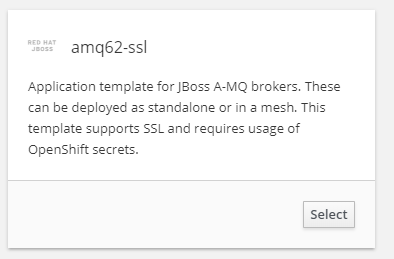
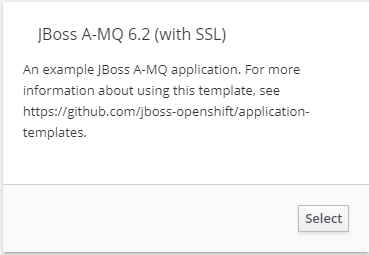
Add new content flow
Fix existing flow to work with amq

diff --git a/rhoar-spring-boot/spring-messaging/04-deploy-to-openshift.md b/rhoar-spring-boot/spring-messaging/04-deploy-to-openshift.md
@@ -23,25 +23,62 @@ In order create our template we have to load a `json` file with all of the confi
 
 ``oc login -u system:admin``{{execute}}
 
-After we're logged in, confirm that we're using the proper project. We should see output that says: `Using project "amq-demo"`. Since we're in the right project, let's go ahead and load up our template:
+After we're logged in, confirm that we're using the proper project. We should see output that says: `Using project "amq-demo"`. Since we're in the right project, let's go ahead and load up our templates:
 
-``oc create -f https://raw.githubusercontent.com/openshift/openshift-ansible/master/roles/openshift_examples/files/examples/v1.3/xpaas-templates/amq62-ssl.json -n openshift``{{execute}}
+``oc create -n openshift -f \ https://raw.githubusercontent.com/jboss-openshift/application-templates/ose-v1.4.8/jboss-image-streams.json``{{execute}}
 
-We should see `template "amq62-ssl" created` which means we're done creating our template! Log back into our developer user and we can get into the other steps necessary for deploying our JBoss Instance.
+``oc replace -n openshift -f \ https://raw.githubusercontent.com/jboss-openshift/application-templates/ose-v1.4.8/jboss-image-streams.json``{{execute}}
+
+``oc -n openshift import-image jboss-amq-62:1.7``{{execute}}
+
+``oc -n openshift import-image jboss-amq-63:1.3``{{execute}}
+
+<!-- ``oc create -f https://raw.githubusercontent.com/openshift/openshift-ansible/master/roles/openshift_examples/files/examples/v1.3/xpaas-templates/amq62-ssl.json -n openshift``{{execute}} -->
+
+>**NOTE:** It's normal to see a few messages saying that some of the image streams already exist.
+
+After we've loaded up all of the templates, run the following command to update all templates:
+
+``for template in amq62-basic.json \
+ amq62-ssl.json \
+ amq63-persistent-ssl.json \
+ amq62-persistent.json \
+ amq63-basic.json \
+ amq63-ssl.json \
+ amq62-persistent-ssl.json \
+ amq63-persistent.json;
+ do
+ oc create -n openshift -f \
+ https://raw.githubusercontent.com/jboss-openshift/application-templates/ose-v1.4.8/amq/${template}
+ oc replace -n openshift -f \
+ https://raw.githubusercontent.com/jboss-openshift/application-templates/ose-v1.4.8/amq/${template}
+ done``{{execute}}
+
+Now that we've created and updated all of the required templates, log back into our developer user and we can get into the other steps necessary for deploying our JBoss Instance.
 
 ``oc login -u developer -p developer``{{execute}}
 
-**2.2 Create Service account and SSL Keys**
+**2.2 Create Service account**
 
 Now we need to make our Service Account for the broker. In order to do that we must first create our ServiceAccount, which we're naming `amq-service-account`:
 
 ``oc create serviceaccount amq-service-account``{{execute}}
 
-Now we simply add the view role to our newly created Service Account:
+Then we add the view role to our newly created Service Account:
 
 ``oc policy add-role-to-user view system:serviceaccount:amq-demo:amq-service-account``{{execute}}
 
-Now that our Service Account is created and has the role required, next we need to add SSL keys. When deploying AMQ to OpenShift we are required to provide SSL keys. If you do not have your own enterprise keys (such as for a Dev environment) you can create your own. Execute the following to create the SSL keys:
+Now that our Service Account is created and has the role required, next we need to add the parameters to the spec field and specify the service account we're going to be using:
+
+<pre class="file" data-filename="pom.xml" data-target="insert" data-marker="# TODO: Add Service Account variables">
+  securityContext: {}
+  serviceAccount: amq-service-account
+  serviceAccountName: amq-service-account
+</pre>
+
+**2.3 Configure SSL**
+ 
+ We're goingo to be taking a minimal approach with our SSL configuration for example purposes. When deploying AMQ to OpenShift we are required to provide a broker keyStore, a client keyStore, and a client trustStore. For this we're going to be creating a self-signed certificate for the broker keyStore. If you do not have your own enterprise keys (such as for a Dev environment) you can create your own. Execute the following to create the SSL keys:
 
 ``keytool -genkey -noprompt -trustcacerts -alias broker -keyalg RSA -keystore broker.ks -keypass password -storepass password -dname "cn=Dev, ou=engineering, o=company, c=US"``{{execute}}
 
@@ -61,13 +98,13 @@ Next we will import these certificates into OpenShift as secrets:
 
 And now all of our configuration is complete. Now it's time to create the AMQ instance.
 
-**2.3 Create AMQ Instance**
+**2.4 Create AMQ Instance**
 
 Log into the web view and select our `amq-demo` project. Then select `Add to Project` followed by `Browse Catalog`. We should now see a new template under the `Technologies` section that says `Messaging`:
 
 ![Messaging](../../assets/middleware/rhoar-messaging/messaging.png)
 
-Click on that template option and we'll be presented with all of the amq templates we've created. Select `amq62-ssl` and hit `Select`:
+Click on that template option and we'll be presented with all of the amq templates we've created. Select `JBoss A-MQ 6.2 (With SSL)`:
 
 ![Messaging](../../assets/middleware/rhoar-messaging/amq62-ssl.png)
 
@@ -75,14 +112,19 @@ We should now see a form accepting multiple parameters for generating the templa
 
 ![Application Created](../../assets/middleware/rhoar-messaging/app-created.png)
 
-Go to the overview and our final step is to expose the routes we require. The four we need to create are:
+Go to the overview and our final step is to expose the routes we require. Only SSL routes can be exposed because the OpenShift router requires SNI to send traffic. You can read more about how that works [here](https://access.redhat.com/documentation/en/openshift-enterprise/version-3.2/architecture/#secured-routes) if you're interested.
+
+The four SSL routes we have are:
 
 `amq-amqp-ssl`
 `amq-mqtt-ssl`
 `amq-stomp-ssl`
 `amq-tcp-ssl`
 
-For each of these routes, click the `Create Route` button and then scroll down and click `Create`. After we've created all four, our JBoss AMQ setup is finally complete!
+Click the `Create Route` button for the `amq-amqp-ssl` route 
+
+
+<!-- For each of these routes, click the `Create Route` button and then scroll down and click `Create`. After we've created all four, our JBoss AMQ setup is finally complete! -->
 
 <!-- 
 
